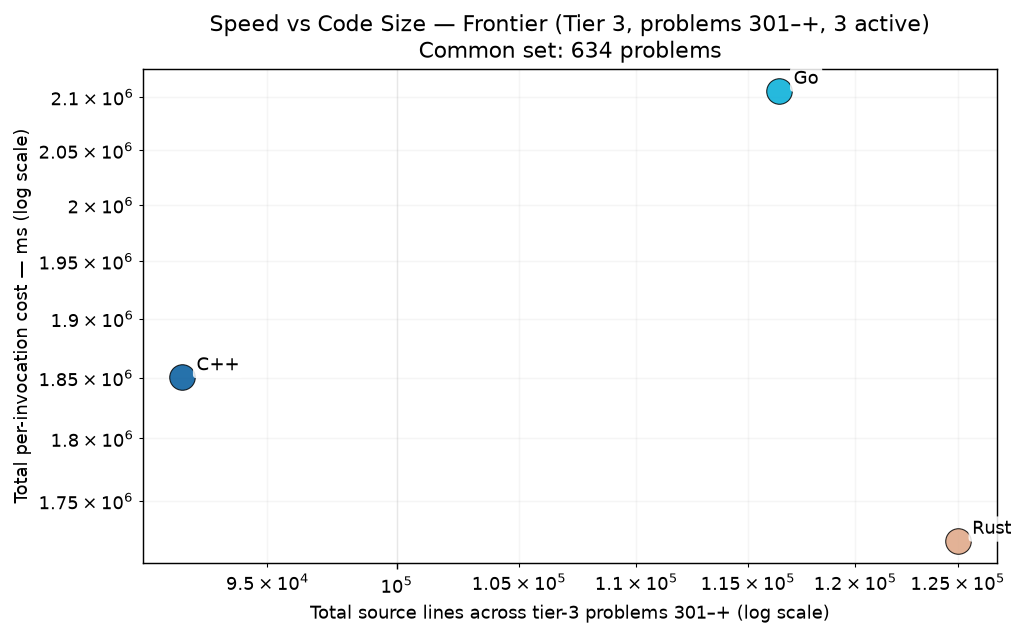
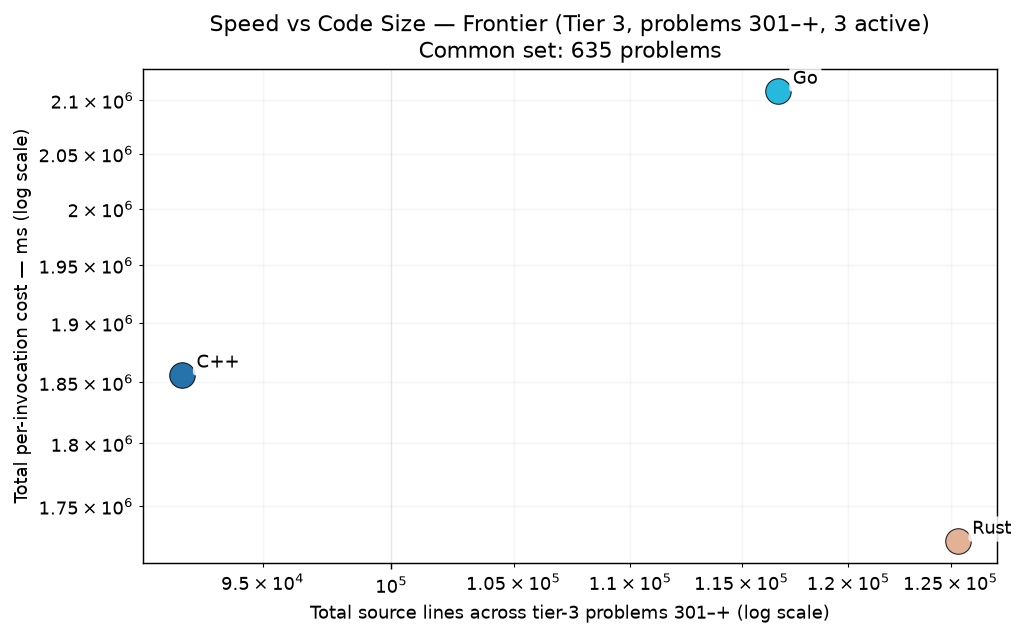
cpp p0729

diff --git a/RESULTS.md b/RESULTS.md
@@ -1,6 +1,6 @@
 # Project Euler — Cross-Language Benchmarks
 
-> **Scope: 4521 in-scope cells across 1007 problems × tiered languages — 4375 measured (96.8% coverage).**
+> **Scope: 4521 in-scope cells across 1007 problems × tiered languages — 4376 measured (96.8% coverage).**
 > The cross-language ranking below is computed over the **200-problem common set** (problems in 1-200 where every language has a passing measurement) — the apples-to-apples Foundation comparison surface.  Per-tier rankings and coverage detail appear further below.
 > Growing carefully — each new problem and language is audited for state-leak
 > safety, verified for answer correctness, and added only when it cleanly fits the
@@ -70,15 +70,15 @@ Same scatter as the Foundation chart, restricted to the tier-2 active languages 
 
 The frontier verification trio — C++, Go, Rust — on problems above 300. 3-way cross-language agreement is the verification protocol (strictly stronger than 2-way; see JOURNEY.md "Tier Reframing" episode for the p254 lesson that motivated it). Python and Zig are explicitly out of this tier — python's wall cost makes it impractical at level 5+, and zig's role caps at Tier 2.
 
-### Per-Invocation Cost (Common Set, 634 of ≤707 problems in scope)
+### Per-Invocation Cost (Common Set, 635 of ≤707 problems in scope)
 
 ![Per-Invocation Cost — Tier 3](charts/per_iter_total_tier3.png)
 
-| Rank | Language | Geomean (634-problem common set) | Total (sum) | Lines of code | vs Fastest |
+| Rank | Language | Geomean (635-problem common set) | Total (sum) | Lines of code | vs Fastest |
 |------|----------|--------------------:|------------:|--------------:|-----------:|
-| 1 | **Rust** | 72.50 ms | 1718.61 s | 124,990 | 1.00× |
-| 2 | **C++** | 74.47 ms | 1850.22 s | 91,831 | 1.03× |
-| 3 | **Go** | 85.27 ms | 2105.55 s | 116,429 | 1.18× |
+| 1 | **Rust** | 72.96 ms | 1722.85 s | 125,353 | 1.00× |
+| 2 | **C++** | 74.99 ms | 1856.33 s | 91,998 | 1.03× |
+| 3 | **Go** | 85.75 ms | 2108.66 s | 116,700 | 1.18× |
 
 ### Speed vs Code Size
 
@@ -264,7 +264,7 @@ table never silently mixes versions (METHODOLOGY.md §4).  Current state of the
 |----------|-----------|------:|---------------|
 | **ARM64** | `Apple clang version 21.0.0 (clang-2100.1.1.101)` | 200 | 2026-07-30 |
 | **C** | `Apple clang version 21.0.0 (clang-2100.1.1.101)` | 200 | 2026-07-30 |
-| **C++** | `Apple clang version 21.0.0 (clang-2100.1.1.101)` | 936 | 2026-09-04 |
+| **C++** | `Apple clang version 21.0.0 (clang-2100.1.1.101)` | 937 | 2026-09-05 |
 | **C#** | `10.0.101` | 200 | 2026-07-30 |
 | **Go** | `go version go1.26.5 darwin/arm64` | 937 | 2026-09-04 |
 | **Java** | `openjdk version "21.0.2" 2024-01-16 LTS` | 200 | 2026-07-30 |

diff --git a/per_problem/per_problem_0701-0800.md b/per_problem/per_problem_0701-0800.md
@@ -36,7 +36,7 @@ in tier-1 display order (native → managed → interpreted).
 | **p0726** | 799.97 ms | 158.57 ms | 208.50 ms |
 | **p0727** | 5.51 ms | 2.47 ms | 4.48 ms |
 | **p0728** | 270.39 ms | 842.95 ms | 746.77 ms |
-| **p0729** | — | 4.23 s | 3.11 s |
+| **p0729** | 6.11 s | 4.23 s | 3.11 s |
 | **p0730** | 8.29 s | 9.00 s | 21.70 s |
 | **p0731** | 117.5 µs | 73.5 µs | 69.0 µs |
 | **p0732** | 65.04 ms | 31.00 ms | 68.85 ms |
